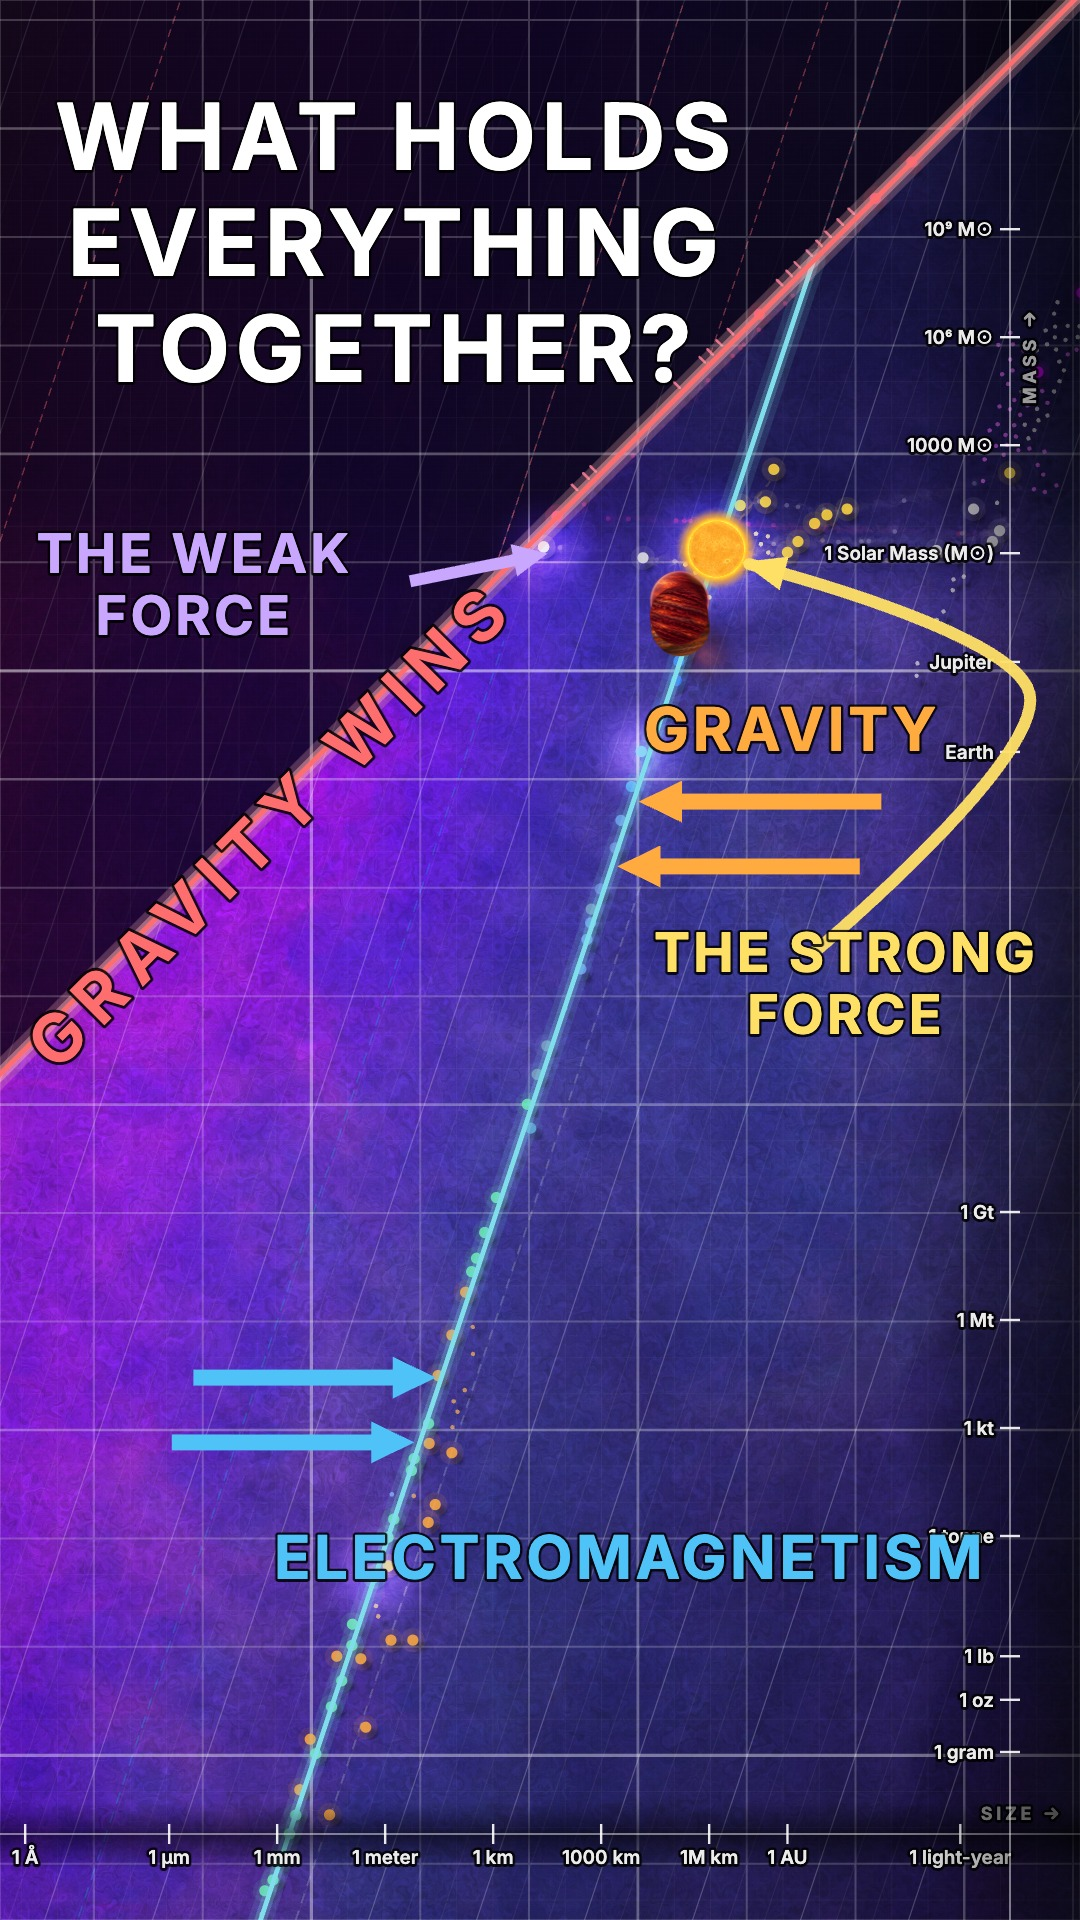
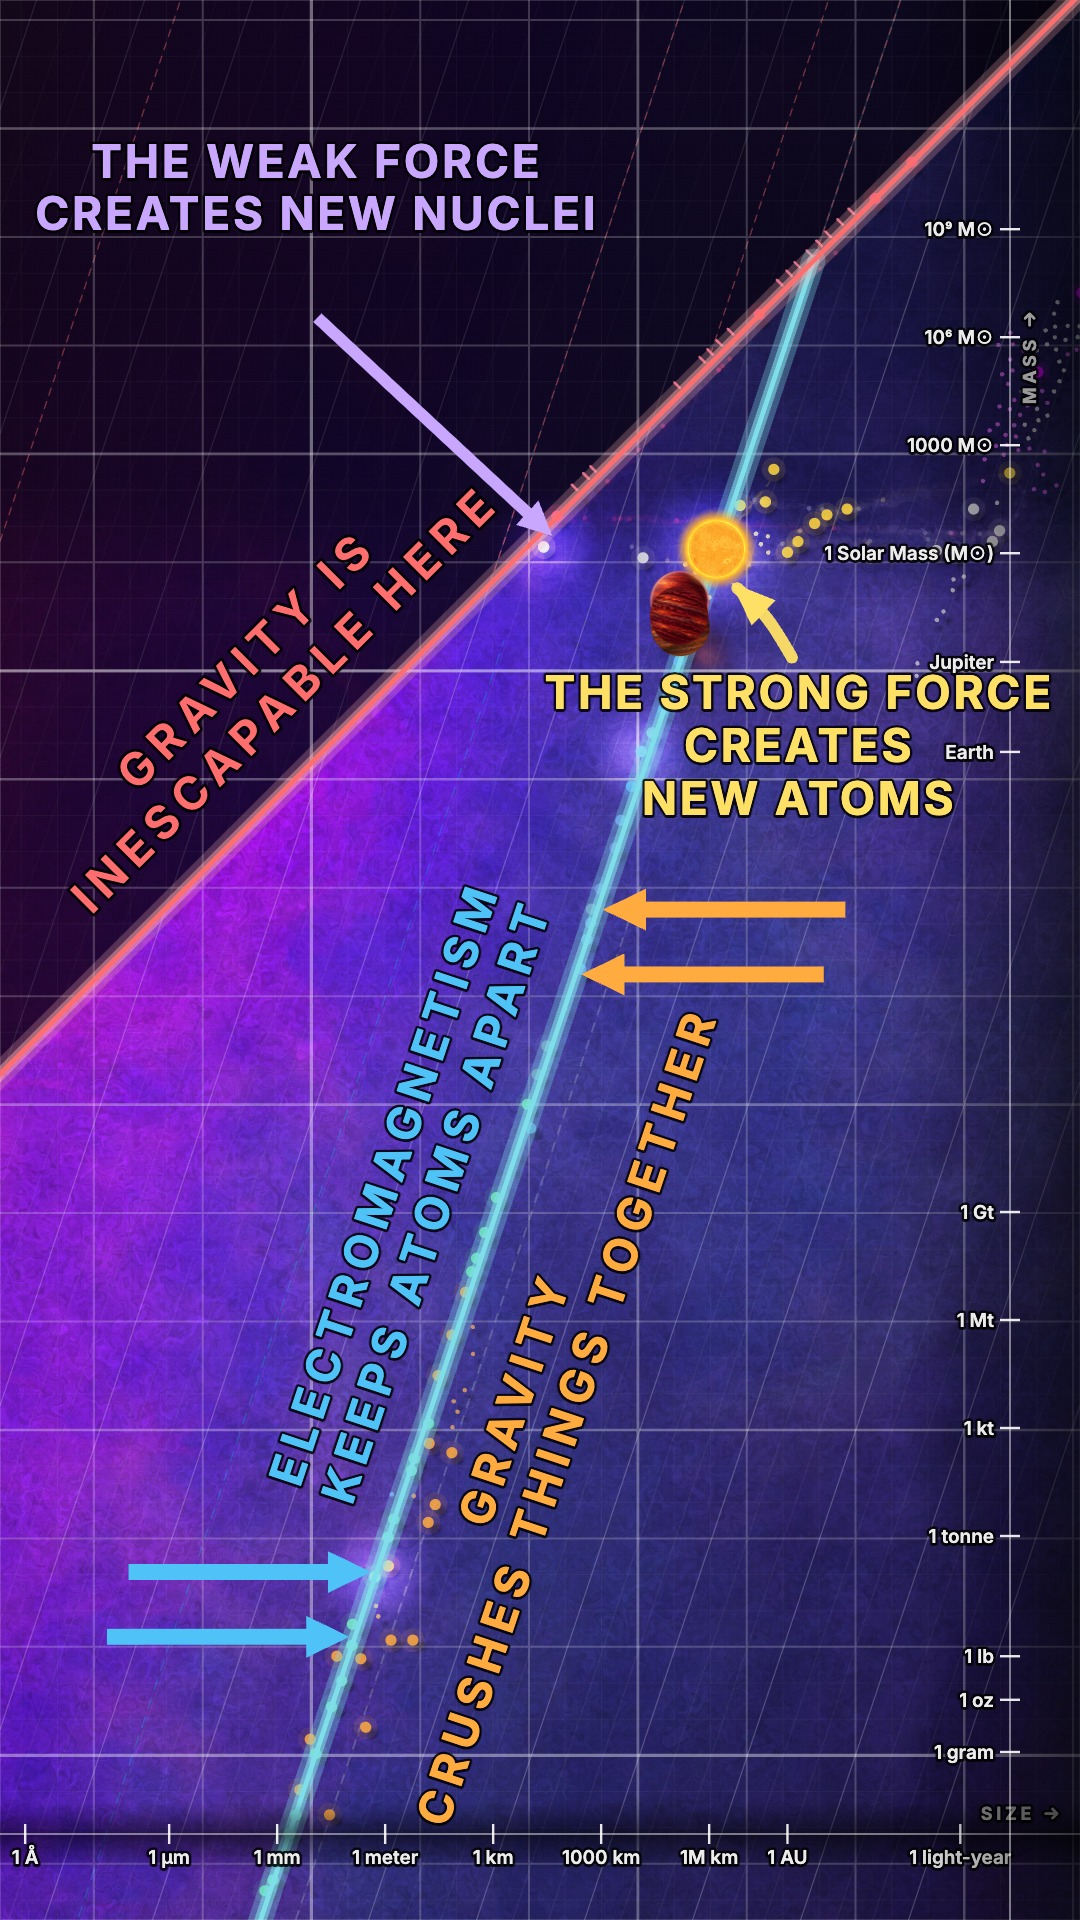
Dance thumbnail, the author's second pass: no question; electromagnetism and gravity along the density line with what each does, the strong and weak forces with theirs, 'gravity is inescapable here' beyond the black-hole line
narration.js: labelColor colours a line's label alone (the line keeps its own).

Changed region(s): [[0.0917, 0.125, 0.9778, 0.9688], [0.0306, 0.0312, 0.6722, 0.5625], [0.2139, 0.9375, 0.275, 1.0]]

diff --git a/src/narration-scenes/short-l2d-dance-of-the-forces.js b/src/narration-scenes/short-l2d-dance-of-the-forces.js
@@ -66,20 +66,18 @@ export default {
   poster: { at: 3, cues: [{ t: 0, cam: { r: 6, m: 22, span: 30 }, dur: 0.1, drift: 0, icons: false, labels: false, hl: [
     { line: "triangle", draw: 0.01 },
     { line: "water", draw: 0.01 },
-    { ...SCHW, label: "gravity wins", size: 34, labelAt: [-0.6, 24.9], instant: true },
+    // the labels along the lines (2026-11-25, the author: electromagnetism and gravity "aligned with the density line", each
+    // with a second line saying what it does; beyond the black-hole line, along it, "gravity is inescapable here")
+    { line: "water", labelOnly: true, label: "electromagnetism\nkeeps atoms apart", labelColor: "#4fc3f7", size: 23, labelAt: [ON_LINE(14.8), 14.8], labelOffset: 12, instant: true },
+    { line: "water", labelOnly: true, label: "gravity\ncrushes things together", labelColor: "#ffab40", size: 23, labelAt: [ON_LINE(10.5), 10.5], labelOffset: -84, instant: true },
+    { ...SCHW, label: "gravity is\ninescapable here", size: 23, labelAt: [0.2, 28.0], labelOffset: 14, instant: true },
     { obj: "Human", label: false, instant: true }, { obj: "Earth", label: false, instant: true }, { obj: "Sun", label: false, instant: true }, { obj: "PSR J0030+0451", label: false, instant: true },
-    // the forces' arrows as in the video (2026-11-25, the author: "eletromagnetism arrows points rightward on the density
-    // line, gravity points leftward (like on the video) and the strong force points to the fusion point and the weak force
-    // points to neutron stars"), bigger for a thumbnail
-    ...[8.6, 10.4].map(m => ({ arrow: true, solid: true, width: 8, color: "#4fc3f7", from: { r: ON_LINE(m) - 8, m }, to: { r: ON_LINE(m) - 0.15, m }, padEnd: 0, draw: 0.01 })),
-    ...[24.6, 26.4].map(m => ({ arrow: true, solid: true, width: 8, color: "#ffab40", from: { r: ON_LINE(m) + 8, m }, to: { r: ON_LINE(m) + 0.15, m }, padEnd: 0, draw: 0.01 })),
-    { arrow: true, solid: true, width: 6, color: "#ffe066", from: { r: 13.6, m: 22.2 }, via: [[19.6, 29.4]], to: { r: 11.6, m: 33.05 }, pad: 4, draw: 0.01 },
-    { arrow: true, solid: true, width: 6, color: "#c9a7ff", from: { r: 1.3, m: 32.3 }, to: { r: 6.75, m: 33.4 }, padEnd: 10, draw: 0.01 },
-    { text: "electromagnetism", at: [8.5, 4.8], size: 30, color: "#4fc3f7", instant: true },
-    { text: "gravity", at: [13, 27.8], size: 30, color: "#ffab40", instant: true },
-    { text: "the strong\nforce", at: [14.5, 20.8], size: 27, color: "#ffe066", instant: true },
-    { text: "the weak\nforce", at: [-3.6, 31.9], size: 27, color: "#c9a7ff", instant: true },
-    { text: "What holds\neverything\ntogether?", at: [2, 41], size: 46, color: "#ffffff", instant: true },
+    ...[3.2, 5].map(m => ({ arrow: true, solid: true, width: 8, color: "#4fc3f7", from: { r: ON_LINE(m) - 8, m }, to: { r: ON_LINE(m) - 0.15, m }, padEnd: 0, draw: 0.01 })),
+    ...[21.6, 23.4].map(m => ({ arrow: true, solid: true, width: 8, color: "#ffab40", from: { r: ON_LINE(m) + 8, m }, to: { r: ON_LINE(m) + 0.15, m }, padEnd: 0, draw: 0.01 })),
+    { arrow: true, solid: true, width: 6, color: "#ffe066", from: { r: 13.0, m: 30.4 }, via: [[12.3, 31.5]], to: { r: 11.4, m: 32.4 }, pad: 2, draw: 0.01 },
+    { arrow: true, solid: true, width: 6, color: "#c9a7ff", from: { r: -1.0, m: 40.6 }, to: { r: 6.75, m: 33.4 }, padEnd: 10, draw: 0.01 },
+    { text: "the strong force\ncreates\nnew atoms", at: [13.2, 27.5], size: 23, color: "#ffe066", instant: true },
+    { text: "the weak force\ncreates new nuclei", at: [-0.2, 43], size: 23, color: "#c9a7ff", instant: true },
   ] }] },
 
   backing: "Promises to Keep",

diff --git a/src/narration.js b/src/narration.js
@@ -1718,7 +1718,7 @@ export async function startNarration(app) {
       const t = el.append("text").attr("class", "narr-linelabel")
         // stacked lines step by the font's own line height; labelOffset: px further off the line
         .attr("transform", `translate(${mid[0]},${mid[1]}) rotate(${a2}) translate(0,${-10 - (h.labelOffset ?? 0) - (h.size ? 1.2 * h.size : 13) * (lines.length - 1)})`)
-        .attr("text-anchor", "middle").attr("fill", col).attr("opacity", prog);
+        .attr("text-anchor", "middle").attr("fill", h.labelColor || col).attr("opacity", prog);   // (labelColor: the label alone, the line keeps its own)
       if (h.size) t.style("font-size", `${h.size}px`);   // px (a thumbnail's bigger labels)
       lines.forEach((ln, i) => t.append("tspan").attr("x", 0).attr("dy", i ? "1.2em" : 0).text(ln));
     }
